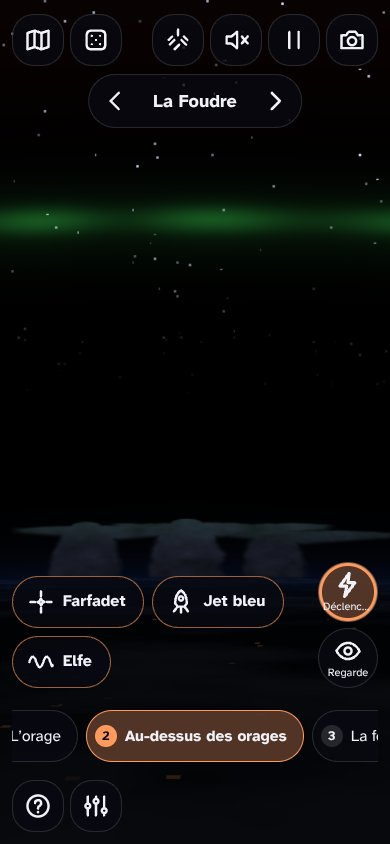
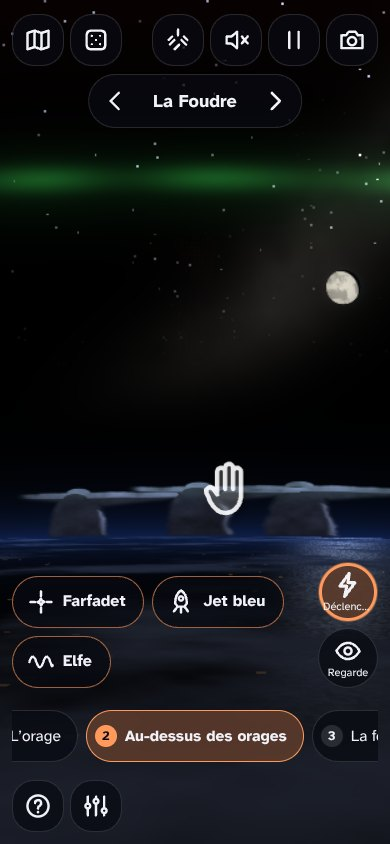
Foudre : « Au-dessus des orages » au clair de lune (enclumes argentées, mer de nuages, Voie lactée), orage au repos lisible en portrait
- une Lune gibbeuse éclaire le dessus des enclumes, la mer de nuages sous le limbe (reflet sur la mer dans les
  trouées) et la basse atmosphère en bleu (Rayleigh) ; la pose longue est annoncée, et le clair de lune se coupe
- la Voie lactée traverse le vide (au-dessus de l'air, le ciel reste noir même au clair de lune) ; l'outil OBSERVER nomme la Lune et la Voie lactée
- éclairs d'orage un peu plus fréquents ; en doux : ancienne cadence, amplitude 0,55, montée et descente lentes
- vue jusqu'à 104 km, limbe à 56 % de la hauteur utile en portrait (orages au-dessus des boutons)
- orage en portrait : base du nuage sous la bande réservée, lueurs dans la partie visible, pose ×1,35

Claude-Session: https://claude.ai/code/session_01MS9d5JmMjbNw1P1jiRQA2y

Changed region(s): [[0.0, 0.5237, 1.0, 1.0], [0.0, 0.154, 1.0, 0.4005]]

diff --git a/app/js/machines/s-foudre.js b/app/js/machines/s-foudre.js
@@ -24,7 +24,7 @@ uniform vec2 uRes; uniform float uT; uniform int uNL; uniform vec4 uL[8];
 float lights(vec2 px){ float L = 0.; for (int i = 0; i < 8; i++){ if (i >= uNL) break; vec2 d = (px - uL[i].xy) / uRes.y; float r = uL[i].w; L += uL[i].z * r * r / (r * r + dot(d, d)); } return L; }
 `;
   const FS_SKY = HEAD + FBM + `
-uniform float uBase, uRain; out vec4 o;
+uniform float uBase, uRain, uExpo; out vec4 o;
 float rainL(vec2 p, float sc, float sp, float den){
   p.x += p.y * .17;
   float cx = floor(p.x / sc), fx = fract(p.x / sc) - .5;
@@ -60,11 +60,12 @@ void main(){
   col = mix(col, vec3(.042, .046, .068) + ville * .3 + lc * L * .7, sh * .45);
   float rn = rainL(px, 3., .9, .3) * .55 + rainL(px + 50., 5., 1.25, .22);
   col += rn * uRain * smoothstep(base - .02, base + .08, y) * (vec3(.035, .04, .05) + ville * .5 + lc * L * .45);
+  col *= uExpo;   // pose : un peu plus longue en portrait, où l'on voit moins de ciel
   col += (hash12(px + fract(uT) * 97.) - .5) / 255.;   // tramage : pas de bandes dans les dégradés sombres
   o = vec4(col, 1.);
 }`;
   const FS_ATMO = HEAD + FBM + `
-uniform float uHz, uKm, uGlow, uCurv; uniform vec4 uSt[3]; out vec4 o;
+uniform float uHz, uKm, uGlow, uCurv, uMI; uniform vec3 uMoon; uniform vec4 uSt[3]; out vec4 o;
 // un cumulonimbus vu de côté (km) : une colonne bosselée jusqu'à 11-15 km, l'enclume plate sous la tropopause,
 // étirée par le vent d'altitude, et le dôme qui la perce au-dessus de la colonne
 float cb(float dxk, float h, float q, float n){
@@ -91,21 +92,49 @@ void main(){
     vec2 e = vec2(dx / (t + .02), 1. / (t + .02)) * .5;
     float cl = smoothstep(.42, .72, fbm5(e * .7 + vec2(uT * .002, 0.)));
     float city = step(.996, hash12(floor(e * 30.))) * (1. - cl) * smoothstep(.0, .05, t);
-    col = vec3(.004, .006, .012) + cl * vec3(.028, .032, .042) + city * vec3(.5, .3, .1) * .5 + cl * lc * L * .9;
-    col += vec3(.02, .05, .12) * exp(-t * 60.); // la mince couche d'air vue par la tranche
+    // la mer de nuages au clair de lune (bosselée), et dans les trouées, la mer qui renvoie la lune : un chemin de
+    // lumière sous elle, étiré vers nous par la perspective
+    float bos = fbm5(e * 1.7 + 3.1), gx = (px.x - uMoon.x) / uRes.y;
+    float glint = uMI * exp(-gx * gx / (.002 + t * .04) - t * 7.) * (1. - cl) * (.6 + .4 * hash12(floor(e * 40.)));
+    col = vec3(.004, .006, .012) + cl * (vec3(.028, .032, .042) + uMI * vec3(.1, .112, .145) * (.45 + .55 * bos)) + city * vec3(.5, .3, .1) * .5 + glint * vec3(.42, .46, .55) + cl * lc * L * .9;
+    col += vec3(.02, .05, .12) * exp(-t * 60.) + uMI * vec3(.03, .065, .15) * exp(-t * 35.); // la mince couche d'air vue par la tranche
   } else {
-    col += vec3(.02, .05, .13) * exp(-h / 6.) * .8;
-    // les orages : trois cumulonimbus toujours là, sombres, que leurs éclairs allument de l'intérieur
-    float cl = 0., nn = .5, top = 0.;
+    // la basse atmosphère diffuse le clair de lune (Rayleigh : bleu) et s'éteint avec la densité de l'air (~8 km)
+    col += vec3(.02, .05, .13) * exp(-h / 6.) * .8 + uMI * vec3(.035, .075, .17) * exp(-h / 8.);
+    // la Voie lactée : au-dessus de l'air, le ciel reste noir même au clair de lune, et on la voit
+    vec2 pn = px / uRes;
+    float vb = pn.x * .42 + pn.y * .9 - .62, band = exp(-vb * vb / .009);
+    float dust = smoothstep(.48, .72, fbm5(px / uRes.y * 5. + 11.));
+    float mw = band * (.4 + .6 * fbm5(px / uRes.y * 9. + 2.)) * (1. - .75 * dust * band);
+    col += vec3(.16, .15, .14) * mw * smoothstep(25., 60., h);
+    col += step(.9935, sh) * band * (.3 + .7 * hash12(si + 7.7)) * vec3(.85, .88, 1.) * .8 * smoothstep(40., 120., h);
+    // la Lune, gibbeuse, éclairée par le Soleil qui est sous l'horizon (en bas à gauche)
+    vec2 md = (px - uMoon.xy) / uMoon.z; float mr = length(md);
+    if (mr < 1.){
+      vec3 nr = vec3(md.x, -md.y, sqrt(1. - mr * mr));
+      float ph = smoothstep(-.05, .12, dot(nr, normalize(vec3(-.45, -.35, .82))));
+      float mare = .74 + .26 * smoothstep(.36, .62, fbm5(md * 2.2 + 4.1));
+      vec3 mc = vec3(.86, .84, .78) * mare * (.8 + .2 * nr.z);
+      col = mix(col, mc * ph + vec3(.02, .022, .03) * (1. - ph), smoothstep(1., .94, mr) * uMI);
+    } else col += uMI * vec3(.55, .6, .75) * .045 * exp(-(mr - 1.) * 4.);
+    // les orages : trois cumulonimbus toujours là, que leurs éclairs allument de l'intérieur
+    float cl = 0., nn = .5, top = 0., ml = 0.;
     for (int i = 0; i < 3; i++){
       float dxk = (px.x - uSt[i].x) / uKm;
       if (dxk < -40. || dxk > 70.) continue;
       float n = fbm5(vec2(px.x / uKm * .16 + float(i) * 7.3, h * .3 - uT * .01));
       float c = cb(dxk, h, uSt[i].y, n);
-      if (c > cl){ cl = c; nn = n; top = smoothstep(7., 15., h); }
+      if (c > cl){
+        cl = c; nn = n; top = smoothstep(7., 15., h);
+        // la lune est en haut à droite : ce qui n'a plus de nuage juste au-dessus (un peu vers elle) est éclairé
+        ml = clamp((c - cb(dxk + .9, h + 1.4, uSt[i].y, n)) * 1.5, 0., 1.);
+      }
     }
-    // la nuit, le dessus des nuages reçoit un peu de la lueur du ciel ; les éclairs les allument de l'intérieur
-    col = mix(col, vec3(.085, .095, .135) * (.5 + .9 * nn) + vec3(.03, .07, .045) * top + lc * L * (.6 + 1.2 * nn * nn), cl);
+    // la nuit, le dessus des nuages reçoit la lueur du ciel et le clair de lune (bosselé, comme des choux-fleurs) ;
+    // les éclairs les allument de l'intérieur
+    vec3 cc = vec3(.085, .095, .135) * (.5 + .9 * nn) + vec3(.03, .07, .045) * top;
+    cc += uMI * vec3(.3, .33, .42) * (.3 + .7 * nn) * (.12 + .3 * top + ml);
+    col = mix(col, cc + lc * L * (.6 + 1.2 * nn * nn), cl);
     // lueur nocturne de l'oxygène atomique (557,7 nm) vers 95 km : une couche lumineuse, ondulée par les ondes de gravité
     float wv = .72 + .28 * sin(px.x / uRes.y * 22. + uT * .15 + 2.5 * sin(px.x / uRes.y * 4.1 - uT * .05));
     col += uGlow * vec3(.07, .26, .1) * (exp(-pow((h - 95.) / 3.6, 2.)) * wv + .28 * exp(-pow((h - 94.) / 11., 2.)) * (.8 + .2 * wv));
@@ -160,7 +189,7 @@ void main(){
     const view = () => { const v = env.view || { x0: 0, x1: W }; return { x0: v.x0, x1: v.x1, w: v.x1 - v.x0, cx: (v.x0 + v.x1) / 2 }; };
     const cfg = {
       scene: 'orage', q: 'haute', act: 0.5, dist: 3, eta: 2.4, pos: 0.12, slow: true, rain: true, after: true, soft: true,
-      lichEta: 1.4, lichAuto: true, gas: 'nexe', tension: 0.6, tle: 0.6, glow: true,
+      lichEta: 1.4, lichAuto: true, gas: 'nexe', tension: 0.6, tle: 0.6, glow: true, lune: true,
     };
     let VT = 0;
 
@@ -183,7 +212,10 @@ void main(){
     let land = null;
 
     /* ───────── géométrie de l'orage ───────── */
-    const cbY = H * 0.21; // base du nuage
+    // base du nuage ; en portrait, sous la bande réservée du haut (le Labo y pose son titre) : sinon il ne restait
+    // qu'une quarantaine de pixels de nuage visibles en 390 px, et l'orage au repos paraissait noir
+    const Y0V = (env.view && env.view.y0) || 0;
+    const cbY = H > W ? Math.max(H * 0.21, Y0V + H * 0.14) : H * 0.21;
     const groundY = (x) => H * (0.865 + 0.016 * Math.sin((x / W) * 5.1 + 0.7) + 0.01 * Math.sin((x / W) * 13.3 + 2.1));
     const kmPxV = (groundY(W / 2) - cbY) / 1.5; // 1,5 km entre le sol et la base du nuage
     const STR = [
@@ -436,7 +468,7 @@ void main(){
     /* ───────── éclairs intranuages et araignées ───────── */
     function startIC(xp) {
       const v = view(), x0 = xp == null ? v.x0 + rnd(0.9, 0.1) * v.w : xp;
-      const ic = { t: 0, dur: rnd(0.7, 0.3), x0, x1: x0 + rnd(0.35, -0.35) * W, y: cbY * rnd(0.85, 0.35), pulses: [], spider: null, km: clamp(cfg.dist * rnd(1.6, 0.8), 1, 25) };
+      const ic = { t: 0, dur: rnd(0.7, 0.3), x0, x1: x0 + rnd(0.35, -0.35) * W, y: rnd(cbY * 0.85, H > W ? Math.max(cbY * 0.35, Y0V) : cbY * 0.35), pulses: [], spider: null, km: clamp(cfg.dist * rnd(1.6, 0.8), 1, 25) };
       const np = 2 + rint(4);
       for (let i = 0; i < np; i++) ic.pulses.push({ t: rnd(ic.dur * 0.85, 0), a: rnd(1, 0.35) });
       if (xp != null || Math.random() < 0.35) ic.spider = spider(x0, cbY + rnd(14, 2) * kS);
@@ -587,7 +619,11 @@ void main(){
 
     /* ───────── haute atmosphère ───────── */
     const yTop = Math.max(H * 0.06, ((env.view && env.view.y0) || 0) + 8);
-    const HZ = H > W ? yTop + (H - yTop) * 0.62 : H * 0.8, KM = (HZ - yTop) / 115, CURV = 0.055;
+    // en portrait, le limbe à mi-hauteur utile : les orages restent au-dessus des boutons du bas, et sous le limbe on
+    // voit la mer de nuages au clair de lune ; on monte jusque vers 104 km (la lueur nocturne est à 95 km)
+    const HZ = H > W ? yTop + (H - yTop) * 0.56 : yTop + (H - yTop) * 0.74, KM = (HZ - yTop) / 104, CURV = 0.055;
+    // la Lune (x, y, rayon) : à droite, dans le vide entre la lueur nocturne et les orages, à l'écart des farfadets
+    const MOON = H > W ? [W * 0.88, HZ - 66 * KM, Math.min(W, H) * 0.045] : [W * 0.92, HZ - 64 * KM, H * 0.042];
     const limbY = (x) => { const d = (x - W / 2) / H; return HZ + d * d * H * CURV; };
     const alt = (x, km) => limbY(x) - km * KM;
     let storms = [], tles = [];
@@ -820,7 +856,7 @@ void main(){
       if (glowCd <= 0) {
         glowCd = rnd(1.15, 0.35);
         const v = view(), np = 1 + rint(2), dur = rnd(0.8, 0.3);
-        glows.push({ x: v.x0 + rnd(0.95, 0.05) * v.w, y: cbY * rnd(0.85, 0.2), r: rnd(0.28, 0.14), a: rnd(2, 0.9) * (env.doux ? 0.45 : 1), t: 0, dur, p: Array.from({ length: np }, () => rnd(dur * 0.7, 0)) });
+        glows.push({ x: v.x0 + rnd(0.95, 0.05) * v.w, y: rnd(cbY * 0.85, H > W ? Math.max(cbY * 0.2, Y0V - 20) : cbY * 0.2), r: rnd(0.28, 0.14), a: rnd(2, 0.9) * (env.doux ? 0.45 : 1), t: 0, dur, p: Array.from({ length: np }, () => rnd(dur * 0.7, 0)) });
       }
       for (let i = glows.length - 1; i >= 0; i--) { glows[i].t += dt; if (glows[i].t > glows[i].dur + 0.8) glows.splice(i, 1); }
     }
@@ -852,8 +888,8 @@ void main(){
       if (hum) hum.gain(cfg.scene === 'plasma' ? 0.006 + cfg.tension * 0.01 : 0);
       if (cfg.scene === 'atmo') {
         for (const st of storms) {
-          st.cd -= dt * (0.3 + cfg.act * 1.2) * (0.5 + st.q);
-          if (st.cd <= 0) { st.cd = rnd(2.5, 0.6); stormFlash(st, Math.random() < 0.18 + cfg.tle * 0.35); if (Math.random() < cfg.tle * 0.06) tles.push(makeJet(st, Math.random() < 0.2)); }
+          st.cd -= dt * (0.3 + cfg.act * 1.2) * (0.5 + st.q) * (env.doux ? 0.65 : 1); // en doux : l'ancienne cadence
+          if (st.cd <= 0) { st.cd = rnd(1.7, 0.4); stormFlash(st, Math.random() < 0.18 + cfg.tle * 0.35); if (Math.random() < cfg.tle * 0.06) tles.push(makeJet(st, Math.random() < 0.2)); }
           for (let i = st.fl.length - 1; i >= 0; i--) { st.fl[i].t += dt; if (st.fl[i].t > st.fl[i].dur) st.fl.splice(i, 1); }
         }
         for (let i = tles.length - 1; i >= 0; i--) { tles[i].t += dt; if (tles[i].t > tles[i].life) tles.splice(i, 1); }
@@ -1000,7 +1036,7 @@ void main(){
       const L2 = lights.map((l) => [l[0], l[1], l[2] * kL, l[3]]);
       for (const g of glows) { const I = glowI(g); if (I > 0.01) L2.push([g.x, g.y, I, g.r]); }
       if (!bare) {
-        if (G) skyGL(G.sky, (P) => P.f('uBase', cbY / H + 0.02).f('uRain', cfg.rain ? 0.5 + cfg.act : 0), L2);
+        if (G) skyGL(G.sky, (P) => P.f('uBase', cbY / H + 0.02).f('uRain', cfg.rain ? 0.5 + cfg.act : 0).f('uExpo', H > W ? 1.35 : 1), L2);
         else sky2D(L2);
         ctx.drawImage(land.dark, 0, 0, W, H);
         const gl = clamp(veil * 0.9, 0, cfg.soft ? 0.75 : 1);
@@ -1043,11 +1079,13 @@ void main(){
     }
     function renderAtmo(bare, ink) {
       const lights = [];
-      for (const st of storms) for (const f of st.fl) lights.push([st.x, alt(st.x, 10), f.a * Math.exp(-f.t / 0.08) * (0.7 + 0.3 * Math.sin(f.t * 90)), 0.05]);
+      // lueurs locales (jamais plein écran) ; en doux, plus faibles, avec une montée et une descente plus lentes
+      const dx = env.doux;
+      for (const st of storms) for (const f of st.fl) lights.push([st.x, alt(st.x, 10), f.a * (dx ? 0.55 * (1 - Math.exp(-f.t / 0.05)) * Math.exp(-f.t / 0.14) : Math.exp(-f.t / 0.08) * (0.7 + 0.3 * Math.sin(f.t * 90))), 0.05]);
       lights.sort((a, b) => b[2] - a[2]);
       if (!bare) {
         const ST = new Float32Array(12); storms.slice(0, 3).forEach((st, i) => ST.set([st.x, st.q, 0, 0], i * 4));
-        if (G) skyGL(G.atmo, (P) => P.f('uHz', HZ).f('uKm', KM).f('uGlow', cfg.glow ? 1 : 0).f('uCurv', CURV).v4('uSt', ST), lights.slice(0, 8));
+        if (G) skyGL(G.atmo, (P) => P.f('uHz', HZ).f('uKm', KM).f('uGlow', cfg.glow ? 1 : 0).f('uCurv', CURV).f('uMI', cfg.lune ? 1 : 0).f('uMoon', MOON[0], MOON[1], MOON[2]).v4('uSt', ST), lights.slice(0, 8));
         else {
           ctx.fillStyle = '#000'; ctx.fillRect(0, 0, W, H);
           ctx.fillStyle = '#05070c'; ctx.beginPath(); ctx.moveTo(0, H); for (let x = 0; x <= W; x += 8) ctx.lineTo(x, limbY(x)); ctx.lineTo(W, H); ctx.fill();
@@ -1224,7 +1262,9 @@ void main(){
       }
       if (l.what === 'airglow') return ['Lueur nocturne', 'oxygène atomique · 557,7 nm · ~95 km d’altitude', '#8ad8a0'];
       if (l.what === 'orage') return ['Sommet d’orage', 'enclume à ~15 km, vue d’en haut · les éclairs l’allument de l’intérieur', '#b9a8ff'];
-      if (l.what === 'terre') return ['Terre de nuit', 'nuages au clair de lune, lumières des villes', '#c8c0b0'];
+      if (l.what === 'terre') return ['Terre de nuit', 'nuages au clair de lune, lumières des villes, et la Lune qui se reflète sur la mer', '#c8c0b0'];
+      if (l.what === 'voie') return ['La Voie lactée', 'notre galaxie vue par la tranche · au-dessus de l’air, le ciel reste noir même au clair de lune', '#e8e0d0'];
+      if (l.what === 'lune') return ['La Lune', 'lumière du Soleil renvoyée · elle éclaire le dessus des orages', '#d8d4c8'];
       if (l.what === 'espace') return ['Espace', 'au-dessus de 100 km, l’air ne diffuse plus la lumière', '#c8d0e0'];
       if (l.what === 'lich') return lich.D ? ['Figure de Lichtenberg', `${lich.N} segments · dimension fractale ≈ ${fr(lich.D, 2)} · η = ${fr(cfg.lichEta, 1)}`, '#d8e4ff'] : ['Bloc de plexiglas', 'chargé d’électrons piégés · touchez avec l’outil ÉCLAIR', '#a8c4ff'];
       if (l.what === 'globe') return ['Filaments de plasma', `${GAS[cfg.gas].nom.toLowerCase()} à basse pression · ~30 kHz, 2 à 5 kV · la chaleur les fait monter`, '#ff7ae0'];
@@ -1240,7 +1280,9 @@ void main(){
       }
       if (cfg.scene === 'atmo') {
         for (const e of tles) { if (Math.abs(e.x - x) < 40 * kS + (e.kind === 'elfe' ? 100 * KM * (e.t / e.life) : 0) && y < limbY(x) - 10 * KM) return { what: 'tle', e, x: e.x, y: e.kind === 'elfe' ? alt(e.x, 90) : alt(e.x, e.kind === 'sprite' ? 70 : 30) }; }
+        if (cfg.lune && Math.hypot(x - MOON[0], y - MOON[1]) < MOON[2] * 1.3) return { what: 'lune', x: MOON[0], y: MOON[1] };
         const h = (limbY(x) - y) / KM;
+        if (h > 40 && Math.abs((x / W) * 0.42 + (y / H) * 0.9 - 0.62) < 0.07) return { what: 'voie', x, y };
         if (h < 0) return { what: 'terre', x, y };
         if (h < 18) return { what: 'orage', x, y };
         if (Math.abs(h - 95) < 10 && cfg.glow) return { what: 'airglow', x, y };
@@ -1356,6 +1398,8 @@ void main(){
           L.push({ type: 'slider', label: 'Activité des orages', min: 0, max: 1, step: 0.01, value: cfg.act, fmt: (x) => Math.round(x * 100) + ' %', set: (x) => { cfg.act = x; } });
           L.push({ type: 'slider', label: 'Phénomènes lumineux transitoires', min: 0, max: 1, step: 0.01, value: cfg.tle, fmt: (x) => (x < 0.2 ? 'rares' : x < 0.7 ? 'fréquents' : 'nuit exceptionnelle'), set: (x) => { cfg.tle = x; } });
           L.push({ type: 'toggle', label: 'Lueur nocturne (airglow)', value: cfg.glow, set: (x) => { cfg.glow = x; } });
+          L.push({ type: 'toggle', label: 'Clair de lune', value: cfg.lune, set: (x) => { cfg.lune = x; } });
+          L.push({ type: 'note', text: 'Comme sur les photos prises depuis la Station spatiale, l’image est en pose longue : au clair de lune, le dessus des nuages et la basse atmosphère (bleue, comme le ciel de jour, puisque c’est la lumière du Soleil renvoyée par la Lune) paraissent plus clairs qu’à l’œil nu.' });
           if (au && au.on) L.push({ type: 'note', text: 'Le son est celui d’un récepteur radio à très basse fréquence : craquements des éclairs et siffleurs.' });
         }
         if (cfg.scene === 'lich') {

diff --git a/docs/rendu/RENDU-A.md b/docs/rendu/RENDU-A.md
@@ -155,3 +155,19 @@ Trois demandes du CEO :
    - **Le diamètre affiché est mesuré** sur la crête du mycélium (médiane de 16 rayons), et non plus calculé par la formule. La formule annonçait 6,4 m pour un rond qui en mesure 5,5 en 1280 et 4,4 en 390 : le sol est plus ou moins riche, la croissance suit les saisons et un rond met du temps à démarrer.
    - **Départ** : un matin de septembre, juste après une pluie ; les champignons sont déjà sortis sur les anneaux. Ils sont dessinés 2,5 fois plus grands que nature (1,6 fois avant ; c'est annoncé dans la notice), sinon on ne les verrait pas d'aussi haut. Les spores apportées par le vent ne tombent plus sous la bande du haut.
    - **Hors de mon périmètre** : dans le Labo, le texte d'état en bas à gauche est caché par les boutons Bidouiller et Pourquoi. C'est le cas de toutes les machines qui écrivent en bas (Foudre, Lave, Réseau…) : c'est à décider côté shell.
+
+## « Au-dessus des orages », repris (13/11, 19 h)
+
+Le verdict de Constance et de la qualité sur ded80e4 était « moche, de justesse » : trois enclumes visibles, mais pâles et sans lumière, sous 70 % de noir. Kurt a sorti la scène du parcours des enfants jusqu'à sa reprise. Les changements :
+
+- **Clair de lune** : une Lune gibbeuse, éclairée par le Soleil qui est sous l'horizon.
+  - Elle argente le dessus des enclumes et des tours. Une surface est éclairée quand il n'y a plus de nuage juste au-dessus d'elle, un peu vers la Lune.
+  - Elle éclaire la mer de nuages sous le limbe, bosselée, et se reflète sur la mer dans les trouées : un chemin de lumière étiré vers nous par la perspective.
+  - Elle allume la basse atmosphère en bleu (diffusion Rayleigh, hauteur d'échelle de l'air environ 8 km). C'est la lumière des photos prises depuis la Station spatiale.
+  - La notice l'annonce : l'image est une pose longue, et le dessus des nuages comme la basse atmosphère y paraissent plus clairs qu'à l'œil nu. Un réglage « Clair de lune » permet de l'éteindre.
+- **La Voie lactée** traverse le vide entre les orages et la lueur nocturne, avec ses bandes de poussière. Au-dessus de l'air, le ciel reste noir même au clair de lune : on la voit. L'outil OBSERVER nomme la Lune et la Voie lactée.
+- **Éclairs dans les orages** : leur cadence passe de 0,6-2,5 s à 0,4-1,7 s par orage. Les lueurs restent locales. Avec `env.doux`, la cadence reste l'ancienne, l'amplitude est de 0,55, et la montée (50 ms) comme la descente (140 ms) sont plus lentes.
+- **Cadrage** : la vue monte jusque vers 104 km au lieu de 115, ce qui grossit les orages de 10 %. En portrait, le limbe est à 56 % de la hauteur utile au lieu de 62 % : les orages sortent de sous les boutons du Labo, et la mer de nuages au clair de lune occupe le bas. La Lune est à droite, dans le vide, loin des farfadets. Placée derrière la lueur nocturne, elle verdissait.
+- Captures : `foudre-atmo-labo.jpg` (1280 × 800, des farfadets en cours) et `foudre-atmo-labo-tel.jpg` (390 × 844).
+- **L'orage au repos en 390 px** (« limite » : nuage presque noir) : en portrait, la base du nuage était à 21 % de la hauteur. La bande réservée du Labo en couvrait l'essentiel, et il ne restait qu'une quarantaine de pixels de nuage visibles. La base descend sous la bande réservée (`y0` + 14 % de la hauteur), et les lueurs et éclairs intranuages se placent dans la partie visible. La pose est un peu plus longue en portrait (×1,35), où l'on voit moins de ciel. Le paysage ne change pas. Capture : `foudre-repos-labo-tel.jpg`.
+- Tests : smoke OK ; test-jeunesse 8/8, lancé seul (en parallèle d'autres navigateurs, le test des 40 machines dépasse 500 s en rendu logiciel) ; test-fiches : seulement les 4 problèmes Blob déjà connus.
